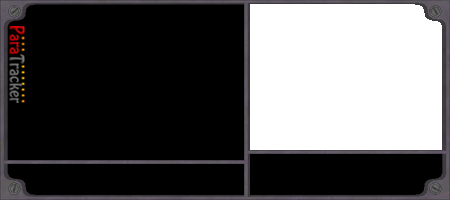
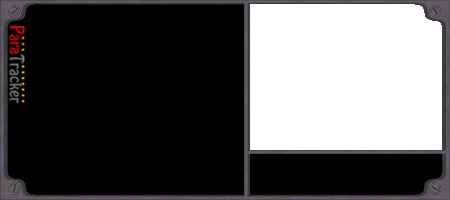
Trying a layout that leaves more room for the player list. There could be multiple layouts available at some point actually.

Changed region(s): [[0.0, 0.78, 0.56, 0.84]]

diff --git a/tracker_page_new.html b/tracker_page_new.html
@@ -2,55 +2,26 @@
 <html>
 	<head>
 		<title>tracker</title>
+		<link rel="stylesheet" href="style2.css" type="text/css" />
 		<script src="//ajax.googleapis.com/ajax/libs/jquery/1.9.1/jquery.min.js"></script>
-		<script type="text/javascript">
-		$(document).ready(function() {
-				
-	/*$.getJSON('serverstatus.php', function(data) {
-		var items = [];
-		$.each(data, function(key, val) {
-			items.push('<li id="' + key + '">' + val + '</li>');
-		});
-		$('<ul/>', {
-			'class': 'my-new-list',
-			html: items.join('')
-		}).appendTo('body');
-		});*/
-		});
-		
-		function do_update() {
-			$.getJSON('serverstatus.php', function(data) {
-				console.log(data);
-			})
-		}
-		
-		function next_page() {
-			
-		}
-		
-		function previous_page() {
-			
-		}
-		</script>
+		<script src="server_status.js"></script>
 	</head>
 	<body>
-		<img id="levelshot" src="levelshots/atlantica_2.jpg" style="z-index:1;position:absolute;width:192px;height:146px;top:4px;left:250px" />
-		<img src="ui/border_graphic.png" style="z-index:2;position:absolute;top:0px;left:0px" />
-		<div style="z-index:3;position:absolute;top:8px;left:30px;color:white;font-size:13px">Player</div>
-		<div style="z-index:3;position:absolute;top:8px;left:175px;color:white;font-size:13px">Score</div>
-		<div style="z-index:3;position:absolute;top:8px;left:210px;color:white;font-size:13px">Ping</div>
-		<ul id="players" style="z-index:3;position:absolute;top:25px;left:28px;width:210px;height:110px;margin:0px;padding:0px;list-style: none;border:2px solid;background:green;overflow:hidden">
-			<li style="background:blue;margin:0px;padding:1px;font-size:14px;width:205px">hi1</li>
-			<li style="background:blue;margin:0px;padding:1px;font-size:14px;width:205px">hi2</li>
-			<li style="background:blue;margin:0px;padding:1px;font-size:14px;width:205px">hi3</li>
-			<li style="background:blue;margin:0px;padding:1px;font-size:14px;width:205px">hi4</li>
-			<li style="background:blue;margin:0px;padding:1px;font-size:14px;width:205px">hi5</li>
-			<li style="background:blue;margin:0px;padding:1px;font-size:14px;width:205px">hi6</li>
-			<li style="background:blue;margin:0px;padding:1px;font-size:14px;width:205px">hi7</li>
+		<img id="levelshot" src="levelshots/atlantica_2.jpg" />
+		<img src="ui/border_graphic.png" class="border_graphic" />
+		<div id="header">Jedi Knight 3 server Bei clan-overrated.de By CoCo (127.0.0.1:29070)</div>
+		<ul id="players">
+			<li>hi1</li>
+			<li>hi2</li>
+			<li>hi1</li>
+			<li>hi2</li>
+			<li>hi1</li>
+			<li>hi2</li>
+			<li>hi1</li>
+			<li>hi2</li>
+			<li>hi1</li>
+			<li>hi2</li>
 		</ul>
-		<div style="z-index:3;position:absolute;top:140px;left:30px;color:white;font-size:14px">Page 1/1</div>
-		<div style="z-index:3;position:absolute;top:139px;left:100px;font-size:14px"><a onclick="previous_page()" href="javascript:void(0)" id="previous">previous</a></div>
-		<div style="z-index:3;position:absolute;top:139px;left:160px;font-size:14px"><a onclick="next_page()" href="javascript:void(0)" id="next">next</a></div>
 		<div id="loading" style="z-index:4;position:absolute;width:100px;height:50px;top:50px;left:50px;background:red;visibility:hidden">Loading...</div>
 	</body>
 </html>

diff --git a/server_status.js b/server_status.js
@@ -1,0 +1,35 @@
+$(document).ready(function() {
+				
+	/*$.getJSON('serverstatus.php', function(data) {
+		var items = [];
+		$.each(data, function(key, val) {
+			items.push('<li id="' + key + '">' + val + '</li>');
+		});
+		$('<ul/>', {
+			'class': 'my-new-list',
+			html: items.join('')
+		}).appendTo('body');
+		});*/
+});
+		
+function do_update() {
+	$.getJSON('serverstatus.php', function(data) {
+		console.log(data);
+	})
+}
+
+function next_page() {
+	console.log("next");
+}
+
+function previous_page() {
+	console.log("prev");
+}
+
+function rcon() {
+	console.log("rcon");
+}
+
+function param() {
+	console.log("param");
+}

diff --git a/style2.css b/style2.css
@@ -1,0 +1,10 @@
+body { font-size:14px }
+
+#levelshot { z-index:1;position:absolute;width:192px;height:146px;top:4px;left:250px; }
+
+.border_graphic { z-index:2;position:absolute;top:0px;left:0px; }
+
+#header { z-index:3;position:absolute;top:7px;left:28px;width:200px;height:20px;font-size:12px;color:white }
+
+#players { z-index:3;position:absolute;top:35px;left:28px;width:215px;height:159px;margin:0px;padding:0px;list-style: none;border:0px;background:green;overflow:hidden }
+#players li { background:blue;margin:0px;padding:1px;width:205px }
